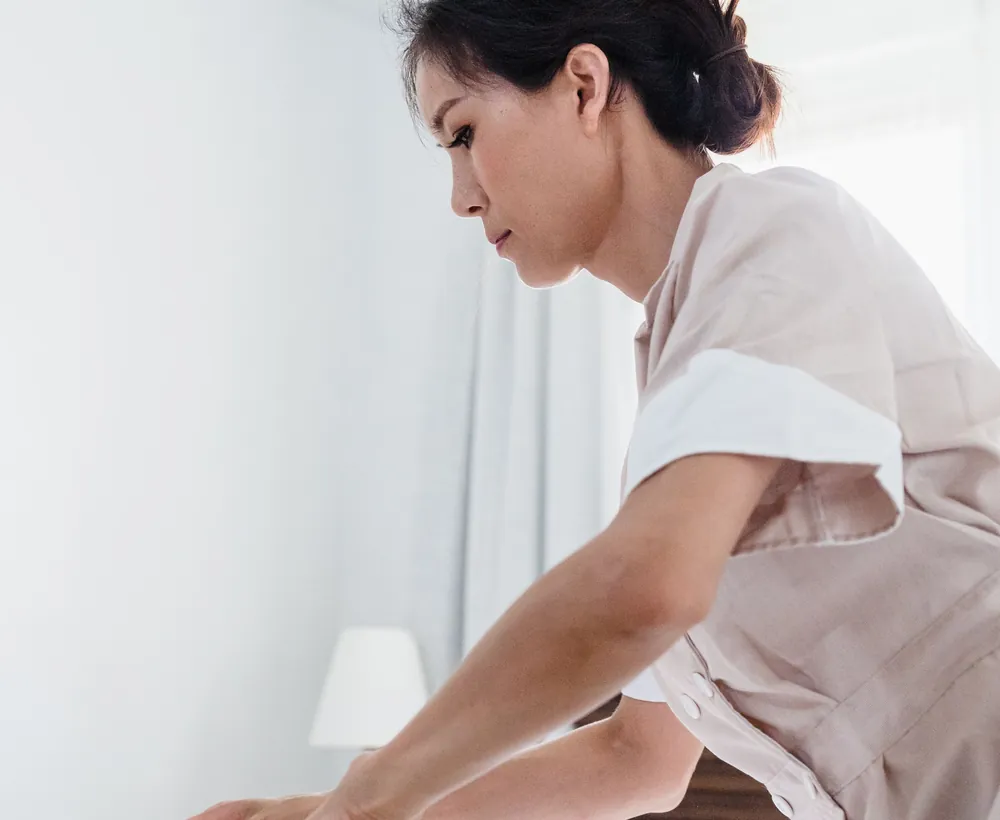
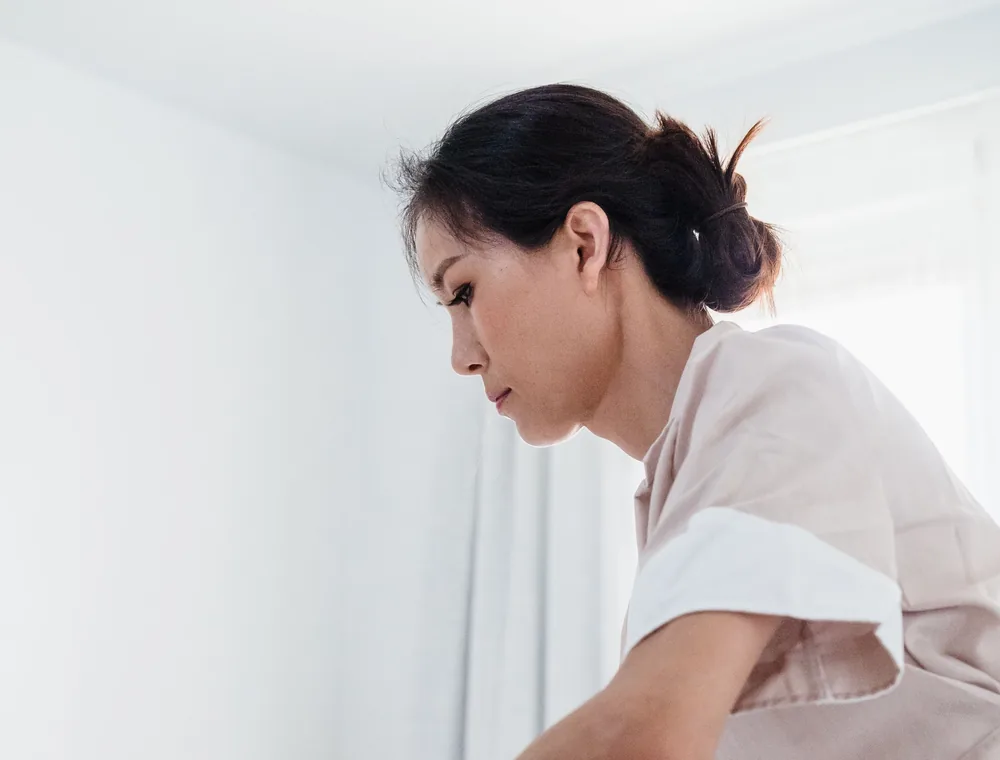
Tira o botão da dobra de benefícios e afina o telemóvel
- Remove o CTA repetido a seguir aos cards de benefícios (o hero já tem dois).
- Corrige a foto do hero no telemóvel: a animação de entrada usava transform e
  anulava o translateX que a centrava; passa a usar a propriedade scale e um left fixo.
- Reenquadra hero-mobile.webp para mostrar a cara, e baixa o arco para o cabeçalho
  não tapar a cabeça.
- Corrige o aspect-ratio das imagens de "Quem somos" e do carrossel de trabalhos:
  faltava height:auto e o atributo height do HTML esticava-as.
- Corrige o tamanho da nota do custo da chamada, que herdava o corpo da dobra.
- Afinações de telemóvel: cards mais arredondados e com mais ar, fotos do carrossel
  maiores, linha do tempo mais compacta, rodapé com separadores entre colunas e
  botões a toda a largura.

diff --git a/site/css/styles.css b/site/css/styles.css
@@ -255,17 +255,17 @@ p, li, blockquote, figcaption { text-wrap: pretty; }
 .arc--photo { background: var(--tint); }
 .arc--photo img { position: absolute; top: 0; height: 100%; object-fit: cover; }
 /* a foto ocupa exatamente a parte do arco que fica visível */
-@media (max-width: 979px) { .arc--photo img { left: 50%; transform: translateX(-50%); width: 71.5%; } }
+@media (max-width: 979px) { .arc--photo img { left: 14.25%; width: 71.5%; } }
 @media (min-width: 980px) { .arc--photo img { right: 0; width: 58.2%; } }
 
 @media (max-width: 979px) {
   .hero { padding-bottom: clamp(3.75rem, 8vw, 5rem); }
-  .hero-art { height: clamp(320px, 56vw, 460px); margin-bottom: clamp(2.5rem, 5vw, 3.25rem); }
-  .arc { left: -20%; right: -20%; top: -100px; border-radius: 0 0 50% 50% / 0 0 18% 18%; }
+  .hero-art { height: clamp(360px, 62vw, 470px); margin-bottom: clamp(2.5rem, 5vw, 3.25rem); }
+  .arc { left: -20%; right: -20%; top: -30px; border-radius: 0 0 50% 50% / 0 0 18% 18%; }
   .arc--grey { bottom: -16px; }
   .arc--blue { bottom: -7px; }
   .arc--photo { bottom: 0; }
-  .arc--photo img { object-position: 50% 28%; }
+  .arc--photo img { object-position: 50% 50%; }
   .hero-copy { text-align: center; }
 }
 @media (min-width: 980px) {
@@ -469,7 +469,7 @@ p, li, blockquote, figcaption { text-wrap: pretty; }
 .about { display: grid; gap: 3rem; align-items: center; }
 @media (min-width: 900px) { .about { grid-template-columns: minmax(0, .95fr) minmax(0, 1.05fr); gap: clamp(2.5rem, 5vw, 4.5rem); } }
 .about-media { position: relative; }
-.about-media img { border-radius: var(--r-lg); width: 100%; aspect-ratio: 5 / 4; object-fit: cover; }
+.about-media img { border-radius: var(--r-lg); width: 100%; height: auto; aspect-ratio: 5 / 4; object-fit: cover; }
 .about-badge {
   position: absolute; right: -.5rem; bottom: -1.25rem; max-width: 15rem;
   padding: 1rem 1.1rem; background: var(--green-hi); color: var(--white);
@@ -660,10 +660,10 @@ p, li, blockquote, figcaption { text-wrap: pretty; }
 }
 @keyframes slide { from { transform: translateX(0); } to { transform: translateX(-50%); } }
 .marquee figure {
-  flex: 0 0 auto; width: clamp(200px, 26vw, 300px);
+  flex: 0 0 auto; width: clamp(250px, 62vw, 300px);
   margin: 0; border-radius: var(--r); overflow: hidden; background: var(--tint);
 }
-.marquee img { width: 100%; aspect-ratio: 4 / 3; object-fit: cover; }
+.marquee img { width: 100%; height: auto; aspect-ratio: 4 / 3; object-fit: cover; }
 .demo-badge {
   display: inline-flex; align-items: center; gap: .4rem;
   padding: .3rem .7rem; border-radius: 999px;
@@ -786,7 +786,7 @@ p, li, blockquote, figcaption { text-wrap: pretty; }
   .final-contacts li:has(a):hover { transform: translateY(-2px); border-color: transparent; box-shadow: var(--shadow); }
   .final-contacts li:has(a):hover .ct-value { color: var(--green); }
 }
-.final-note { margin-top: .9rem; color: var(--muted); font-size: .75rem; }
+.final-grid .final-note { margin-top: .9rem; max-width: none; color: var(--muted); font-size: .75rem; line-height: 1.5; }
 
 .final-card {
   padding: clamp(1.5rem, 3vw, 2.25rem);
@@ -942,10 +942,10 @@ dialog.modal::backdrop { background: rgba(1, 38, 77, .6); backdrop-filter: blur(
   }
 
   /* hero: entra ao carregar a página, não por scroll */
-  .js .hero .arc--photo img { opacity: 0; transform: scale(1.06); }
+  .js .hero .arc--photo img { opacity: 0; scale: 1.06; }
   .js .hero.is-ready .arc--photo img {
-    opacity: 1; transform: none;
-    transition: opacity 1s var(--ease), transform 1.4s var(--ease);
+    opacity: 1; scale: 1;
+    transition: opacity 1s var(--ease), scale 1.4s var(--ease);
   }
   .js .hero .arc--grey, .js .hero .arc--blue { opacity: 0; }
   .js .hero.is-ready .arc--grey { opacity: 1; transition: opacity .8s var(--ease) .15s; }
@@ -974,3 +974,44 @@ dialog.modal::backdrop { background: rgba(1, 38, 77, .6); backdrop-filter: blur(
 }
 .js .hl-line.is-drawn { background-size: 100% 100%; transition: background-size .9s var(--ease) .2s; }
 @media (prefers-reduced-motion: reduce) { .hl-line { background-size: 100% 100%; } }
+
+
+/* ==========================================================================
+   Afinações de telemóvel
+   ========================================================================== */
+@media (max-width: 599px) {
+  /* títulos e textos de apoio mais contidos */
+  .head p, .hero-lead { font-size: var(--s-0); }
+  .head { max-width: 30rem; margin-inline: auto; }
+
+  /* cards com mais ar por dentro */
+  .svc-card { border-radius: 22px; }
+  .svc-body { padding: 1.4rem 1.35rem 1.5rem; }
+  .who-card, .benefit { border-radius: 22px; }
+
+  /* o carrossel de serviços deixa espreitar o card seguinte */
+  .svc-track { grid-auto-columns: 82%; }
+
+  /* linha do tempo: cards um pouco mais compactos */
+  .step-card { padding: 1.4rem 1.25rem 1.35rem; }
+  .step-card h3 { font-size: 1rem; }
+
+  /* mapa: a caixa não fica tão colada ao topo */
+  .place-media { height: 260px; }
+  .place-inner { margin-top: -3rem; }
+
+  /* contactos e formulário */
+  .final-card { border-radius: 22px; padding: 1.4rem 1.2rem 1.5rem; }
+  .final-contacts li { padding: .85rem 1rem; }
+
+  /* rodapé: colunas com um separador leve entre si */
+  .site-footer .footer-grid > * + * {
+    padding-top: 2rem; border-top: 1px solid var(--line-navy); width: 100%;
+  }
+  .footer-brand p { max-width: 30rem; }
+
+  /* botões grandes o suficiente para o polegar */
+  .btn { padding: .95rem 1.5rem; }
+  .cta-row .btn, .hero-actions .btn { width: 100%; }
+  .mobile-bar .btn { padding-block: .8rem; }
+}

diff --git a/site/index.html b/site/index.html
@@ -133,7 +133,7 @@
       <div class="arc arc--photo">
         <picture>
           <source media="(min-width: 980px)" srcset="assets/img/fotos/hero.webp 1100w, assets/img/fotos/hero-2x.webp 1500w" sizes="52vw">
-          <img src="assets/img/fotos/hero-mobile.webp" width="1000" height="820" alt="Profissional de limpeza a preparar a roupa de cama num quarto claro" fetchpriority="high">
+          <img src="assets/img/fotos/hero-mobile.webp" width="1000" height="760" alt="Profissional de limpeza a preparar a roupa de cama num quarto claro" fetchpriority="high">
         </picture>
       </div>
     </div>
@@ -181,9 +181,6 @@
           <p>Rodapés, interruptores, puxadores e cantos. O que muitos esquecem.</p>
         </li>
       </ul>
-      <div class="cta-row">
-        <a class="btn btn-primary" href="#contacto" data-quote>Pedir orçamento</a>
-      </div>
     </div>
   </section>
 
@@ -442,7 +439,7 @@
     </div>
 
     <div class="wrap">
-      <p class="marquee-note"><span class="demo-badge">Fotos ilustrativas — a substituir por trabalhos reais</span></p>
+      <p class="marquee-note"><span class="demo-badge">Fotos ilustrativas</span></p>
       <div class="cta-row">
         <a class="btn btn-primary" href="#contacto" data-quote>Quero um resultado assim</a>
       </div>
